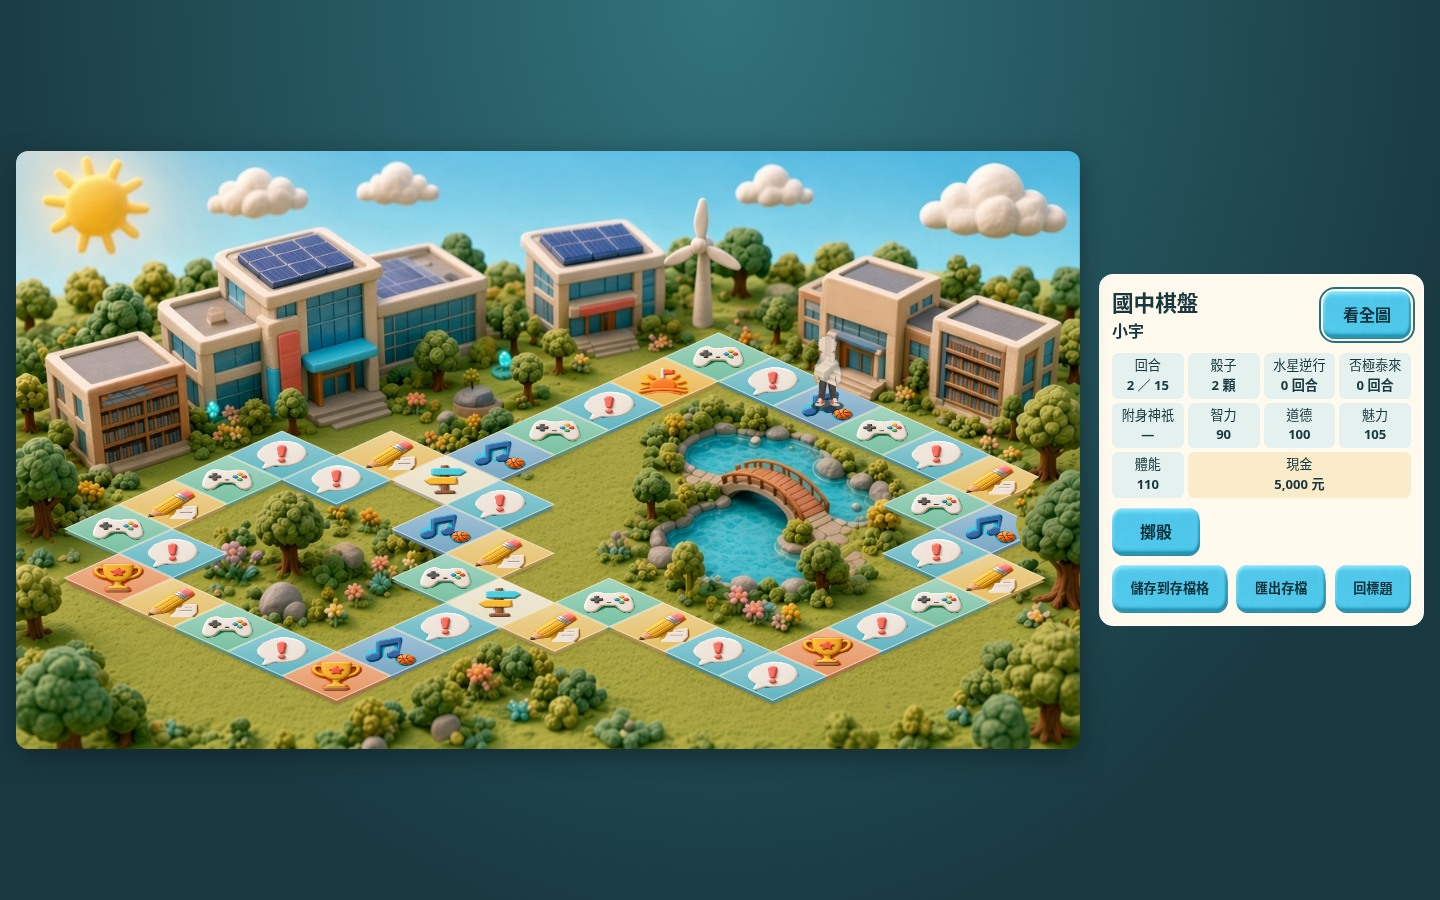
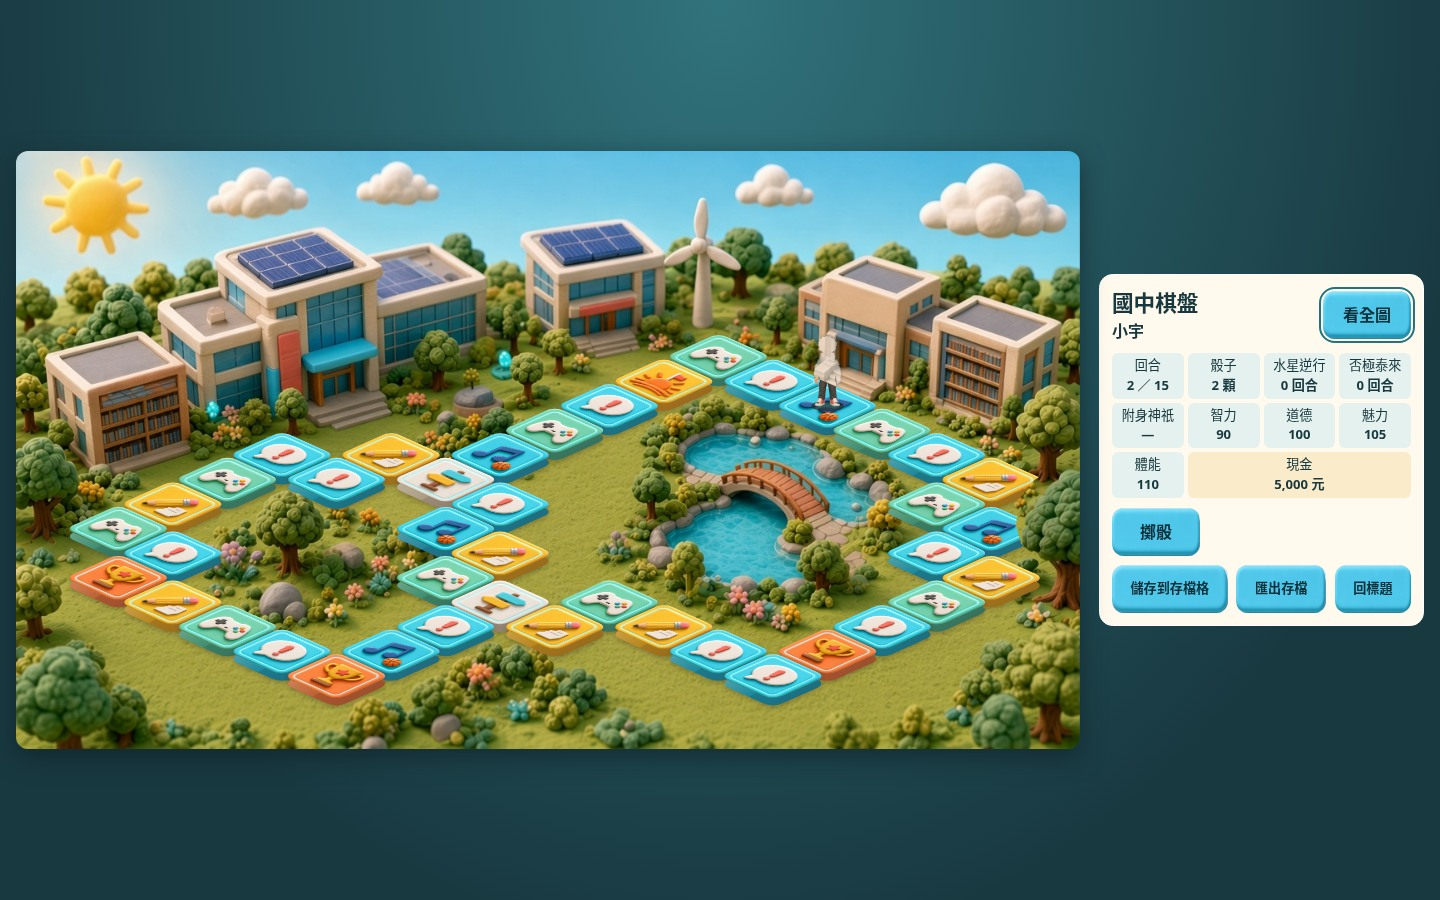
套用原稿黏土地磚外觀

Changed region(s): [[0.0312, 0.3733, 0.7188, 0.8089]]

diff --git a/src/board-view.ts b/src/board-view.ts
@@ -1,11 +1,11 @@
 import { assets } from "./assets";
-import { debugGrid, measureTrack } from "./board-track";
+import { clayRadius, debugGrid, measureTrack } from "./board-track";
 import type { BoardLayout, Orientation } from "./data/board-layout";
 import { juniorScenery } from "./data/junior-scenery";
 import { tileLabels, type TileKind } from "./data/junior";
 
 const sprites = import.meta.glob<string>(
-  "./board-art/{*-print,boy-*,girl-*}.webp",
+  "./board-art/{*-clay,boy-*,girl-*}.webp",
   {
     eager: true,
     query: "?url",
@@ -15,15 +15,17 @@ const sprites = import.meta.glob<string>(
 const sprite = (name: string) => sprites[`./board-art/${name}.webp`];
 
 type Pose = "stand" | "left" | "right" | "win";
-const paint: Record<TileKind, string> = {
-  start: "#e9b750",
-  event: "#61b5c2",
-  game: "#79c1a3",
-  club: "#79a7c5",
-  quiz: "#e5be66",
-  contest: "#e69460",
-  fork: "#e9dfc5",
-};
+// Love art is part of the tilesheet, while the junior rules use seven kinds.
+const claySides = {
+  start: "#bb801d",
+  event: "#16869e",
+  game: "#398b71",
+  club: "#1a829d",
+  quiz: "#b7831b",
+  contest: "#bd5d32",
+  love: "#b34f60",
+  fork: "#a99a84",
+} satisfies Record<TileKind | "love", string>;
 
 export function boardView(
   svg: SVGSVGElement,
@@ -34,7 +36,7 @@ export function boardView(
   debug: boolean,
   follow: (point: { x: number; y: number }) => void,
 ) {
-  const { centers, pavers } = measureTrack(layout);
+  const { centers, wall, tileTop } = measureTrack(layout);
   const pawnWidth = (layout.pawnHeight * 116) / 197;
   const pawnLabel = gender === "boy" ? "男主角棋子" : "女主角棋子";
   const scenery = juniorScenery[orientation].map((object, id) => {
@@ -49,24 +51,32 @@ export function boardView(
   }));
   for (const [id, center] of centers.entries()) {
     const { kind } = tiles[id];
-    const { face, print, iconSize } = pavers[id];
     layers.push({
       y: center.y,
       markup: `<g class="board-tile" data-depth="${center.y}" data-kind="${kind}" data-tile="${id}" role="img" aria-label="${tileLabels[kind]}">
-        <path class="paver-shadow" d="${face}" transform="translate(0 4)"/>
-        <path class="paver-side" d="${face}" fill="${paint[kind]}" transform="translate(0 2.6)"/>
-        <path class="paver-top" d="${face}" fill="${paint[kind]}"/>
-        <path d="${face}" fill="url(#paver-light)"/>
-        <image href="${sprite(`${kind}-print`)}" x="${-iconSize / 2}" y="${-iconSize / 2}" width="${iconSize}" height="${iconSize}" transform="${print}"/>
+        <g transform="translate(${center.x} ${center.y})">
+          <use href="#clay-wall" class="paver-shadow" transform="translate(0 1.6)"/>
+          <use href="#clay-wall" fill="${claySides[kind]}"/>
+          <use href="#clay-wall" fill="url(#clay-side-light)"/>
+        </g>
+        <image class="paver-top" href="${sprite(`${kind}-clay`)}" x="-.5" y="-.5" width="1" height="1" preserveAspectRatio="none" transform="${tileTop(center)}" clip-path="url(#clay-top)"/>
       </g>`,
     });
   }
   svg.setAttribute("viewBox", `0 0 ${layout.width} ${layout.height}`);
   svg.innerHTML = `
     <defs>
-      <linearGradient id="paver-light" x2="0%" y2="100%">
-        <stop stop-color="white" stop-opacity=".34"/>
-        <stop offset="1" stop-color="white" stop-opacity="0"/>
+      <path id="clay-wall" d="${wall}"/>
+      <clipPath id="clay-top" clipPathUnits="objectBoundingBox">
+        <path d="M ${clayRadius} 0 H ${1 - clayRadius} Q 1 0 1 ${clayRadius}
+          V ${1 - clayRadius} Q 1 1 ${1 - clayRadius} 1 H ${clayRadius}
+          Q 0 1 0 ${1 - clayRadius} V ${clayRadius} Q 0 0 ${clayRadius} 0 Z"/>
+      </clipPath>
+      <linearGradient id="clay-side-light" x2="100%" y2="56%">
+        <stop stop-color="#fff2d2" stop-opacity=".3"/>
+        <stop offset=".49" stop-color="#fff2d2" stop-opacity=".04"/>
+        <stop offset=".52" stop-color="#352122" stop-opacity=".13"/>
+        <stop offset="1" stop-color="#352122" stop-opacity=".26"/>
       </linearGradient>
       <image id="scene-art" href="${assets.junior[orientation]}" width="${layout.width}" height="${layout.height}" preserveAspectRatio="none"/>
       ${scenery

diff --git a/src/board-track.ts b/src/board-track.ts
@@ -7,17 +7,29 @@ function project(layout: BoardLayout, [column, row]: Cell) {
   };
 }
 
+// The crop and the extruded edge share this radius in ground coordinates.
+export const clayRadius = 0.19;
+
 export function measureTrack(layout: BoardLayout) {
-  const { halfWidth, halfHeight } = layout;
-  const tileWidth = halfWidth * 0.982;
-  const tileHeight = halfHeight * 0.982;
+  const w = layout.halfWidth * 0.982;
+  const h = layout.halfHeight * 0.982;
+  const depth = 5.5;
+  const roundX = w * clayRadius;
+  const roundY = h * clayRadius;
+  const outerX = w - roundX;
+  const frontY = h - roundY;
+  // The two rounded front faces are extruded vertically in screen space.
+  const wall = `M ${-outerX} ${-roundY}
+    Q ${-w} 0 ${-outerX} ${roundY}
+    L ${-roundX} ${frontY} Q 0 ${h} ${roundX} ${frontY}
+    L ${outerX} ${roundY} Q ${w} 0 ${outerX} ${-roundY}
+    V ${depth - roundY} Q ${w} ${depth} ${outerX} ${depth + roundY}
+    L ${roundX} ${depth + frontY} Q 0 ${depth + h} ${-roundX} ${depth + frontY}
+    L ${-outerX} ${depth + roundY} Q ${-w} ${depth} ${-outerX} ${depth - roundY} Z`;
   const centers = layout.cells.map((cell) => project(layout, cell));
-  const pavers = centers.map(({ x, y }) => ({
-    face: `M ${x} ${y - tileHeight} L ${x + tileWidth} ${y} L ${x} ${y + tileHeight} L ${x - tileWidth} ${y} Z`,
-    print: `translate(${x} ${y}) scale(1 ${Math.min(0.78, (halfHeight / halfWidth) * 1.28)})`,
-    iconSize: halfWidth * 0.98,
-  }));
-  return { centers, pavers };
+  const tileTop = ({ x, y }: (typeof centers)[number]) =>
+    `matrix(${w} ${h} ${-w} ${h} ${x} ${y})`;
+  return { centers, wall, tileTop };
 }
 
 export function debugGrid(layout: BoardLayout) {

diff --git a/src/junior-board.css b/src/junior-board.css
@@ -42,16 +42,9 @@
   height: 100%;
 }
 .paver-shadow {
-  fill: #46372a;
-  opacity: 0.23;
-  filter: blur(0.85px);
-}
-.paver-side {
-  filter: brightness(0.76);
-}
-.paver-top {
-  stroke: #fff7e0a0;
-  stroke-width: 0.8;
+  fill: #352d23;
+  opacity: 0.32;
+  filter: blur(1.8px);
 }
 .pawn-shadow {
   fill: #282621;
